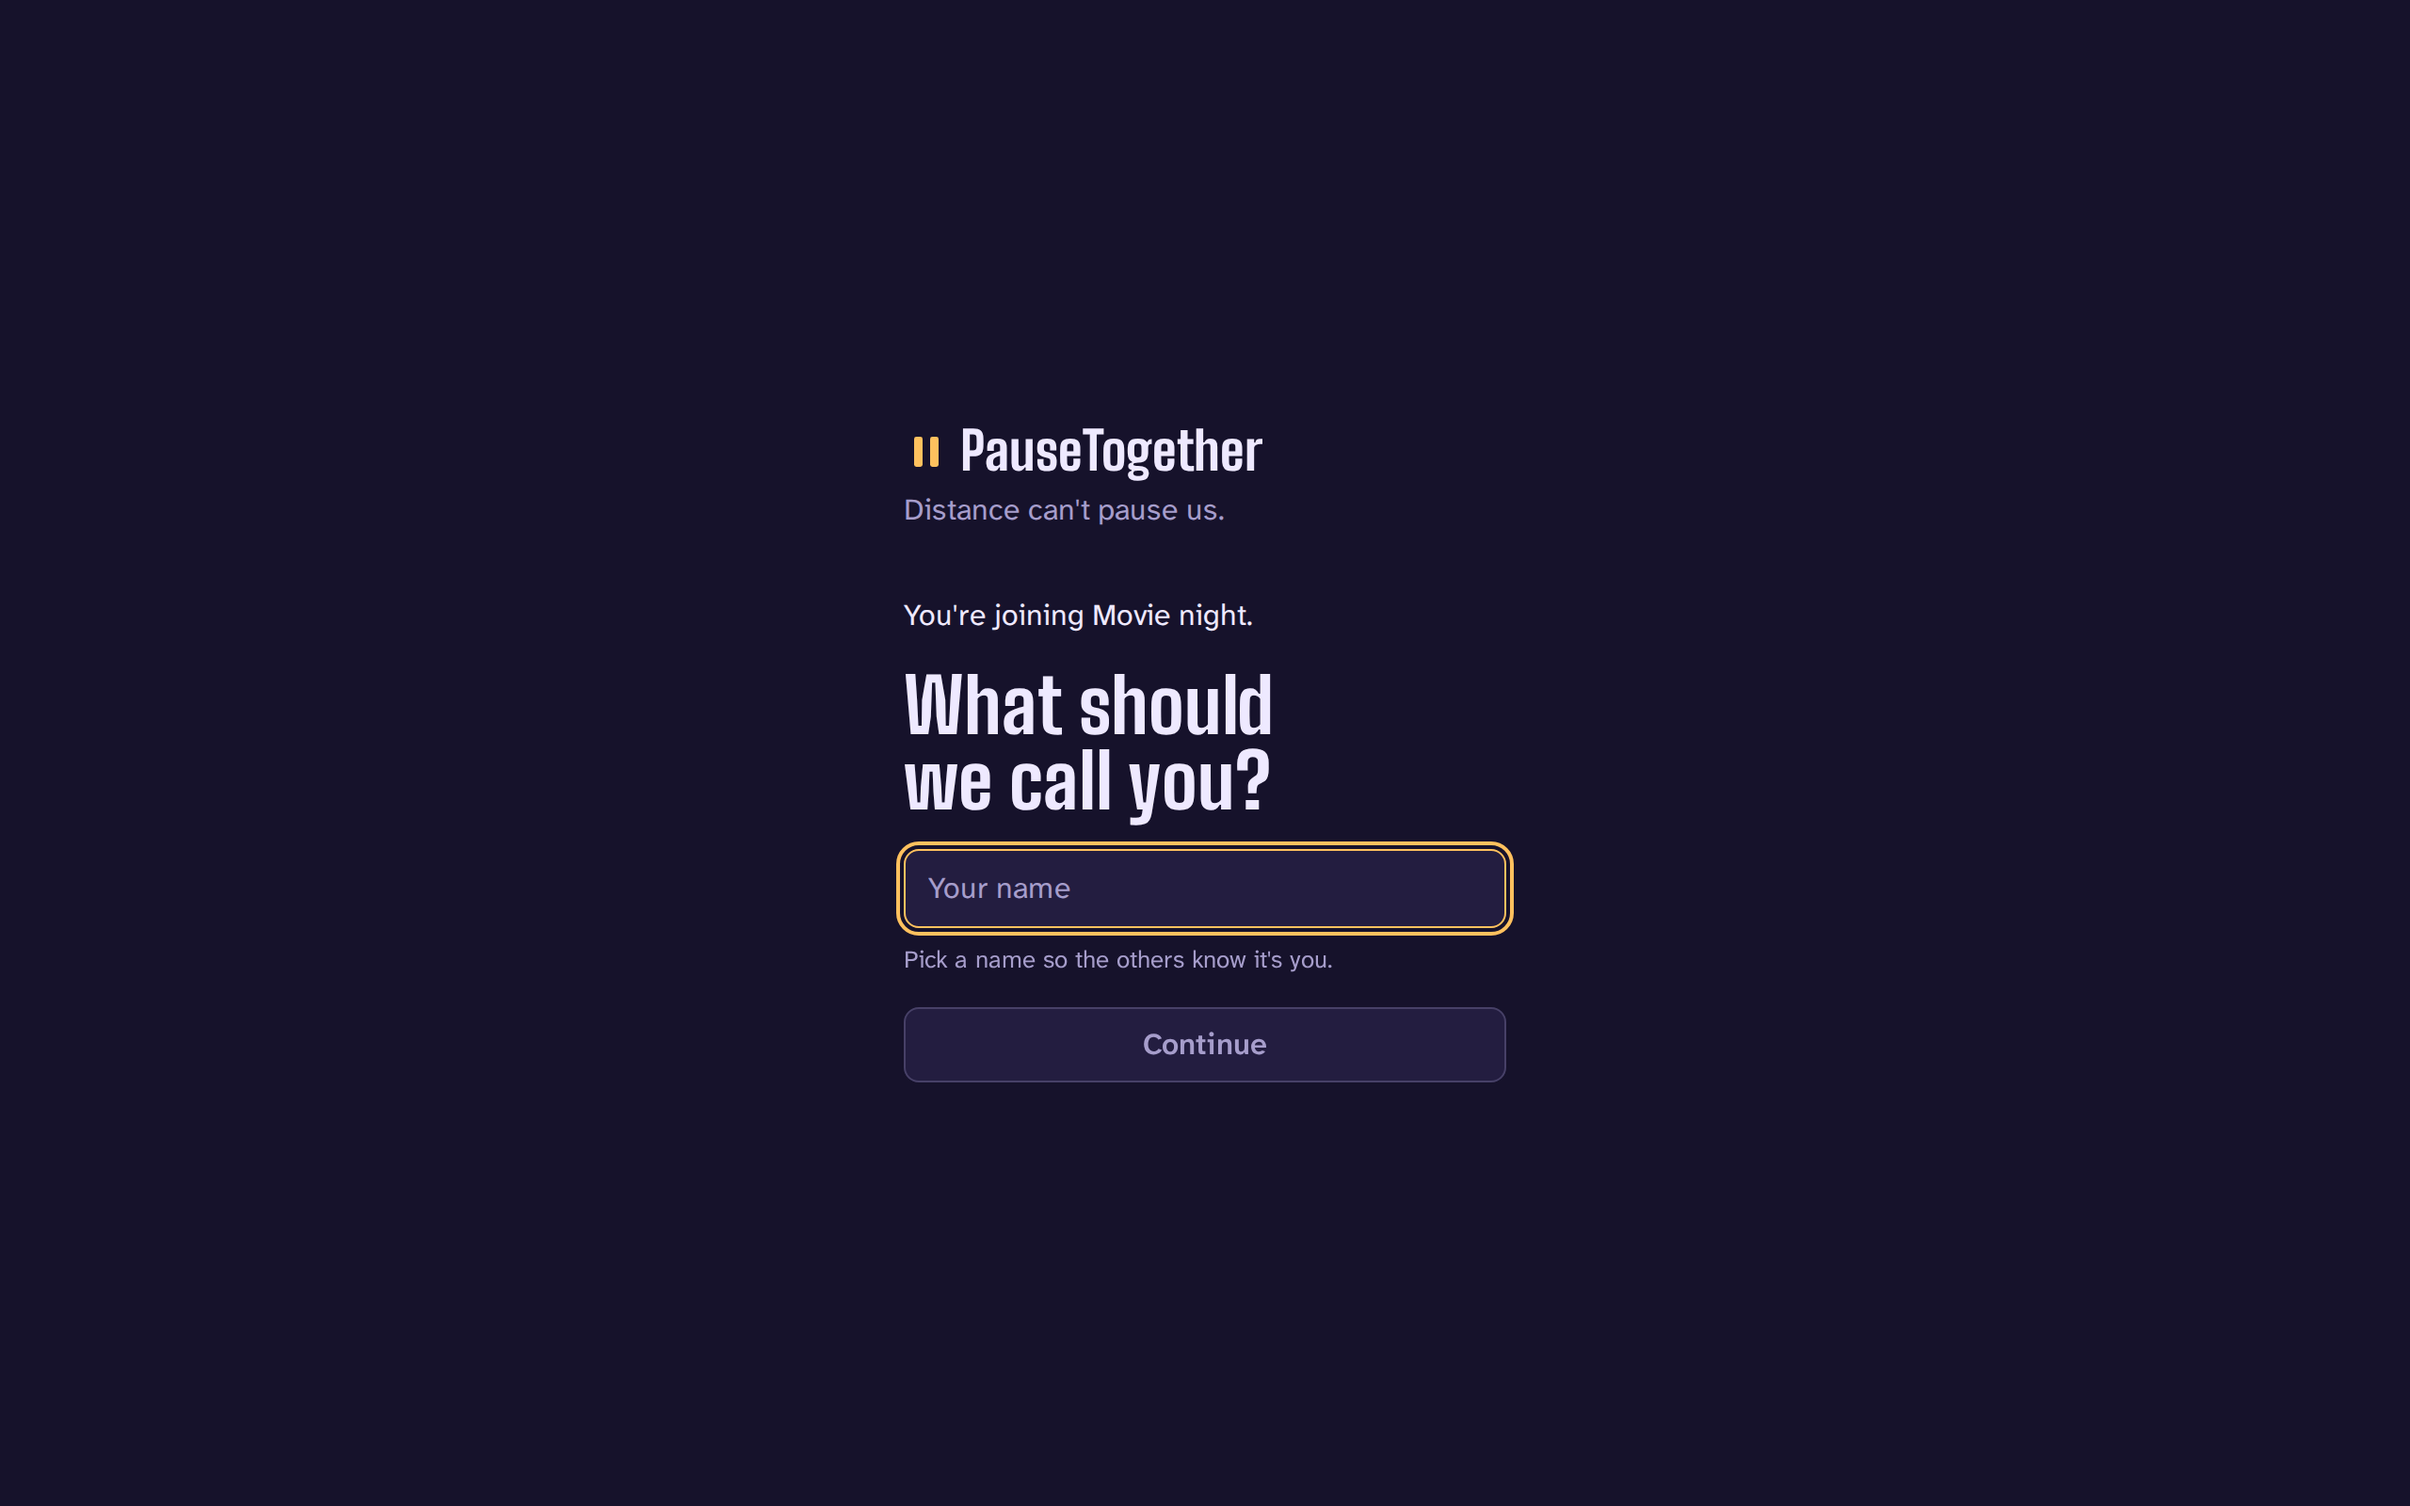
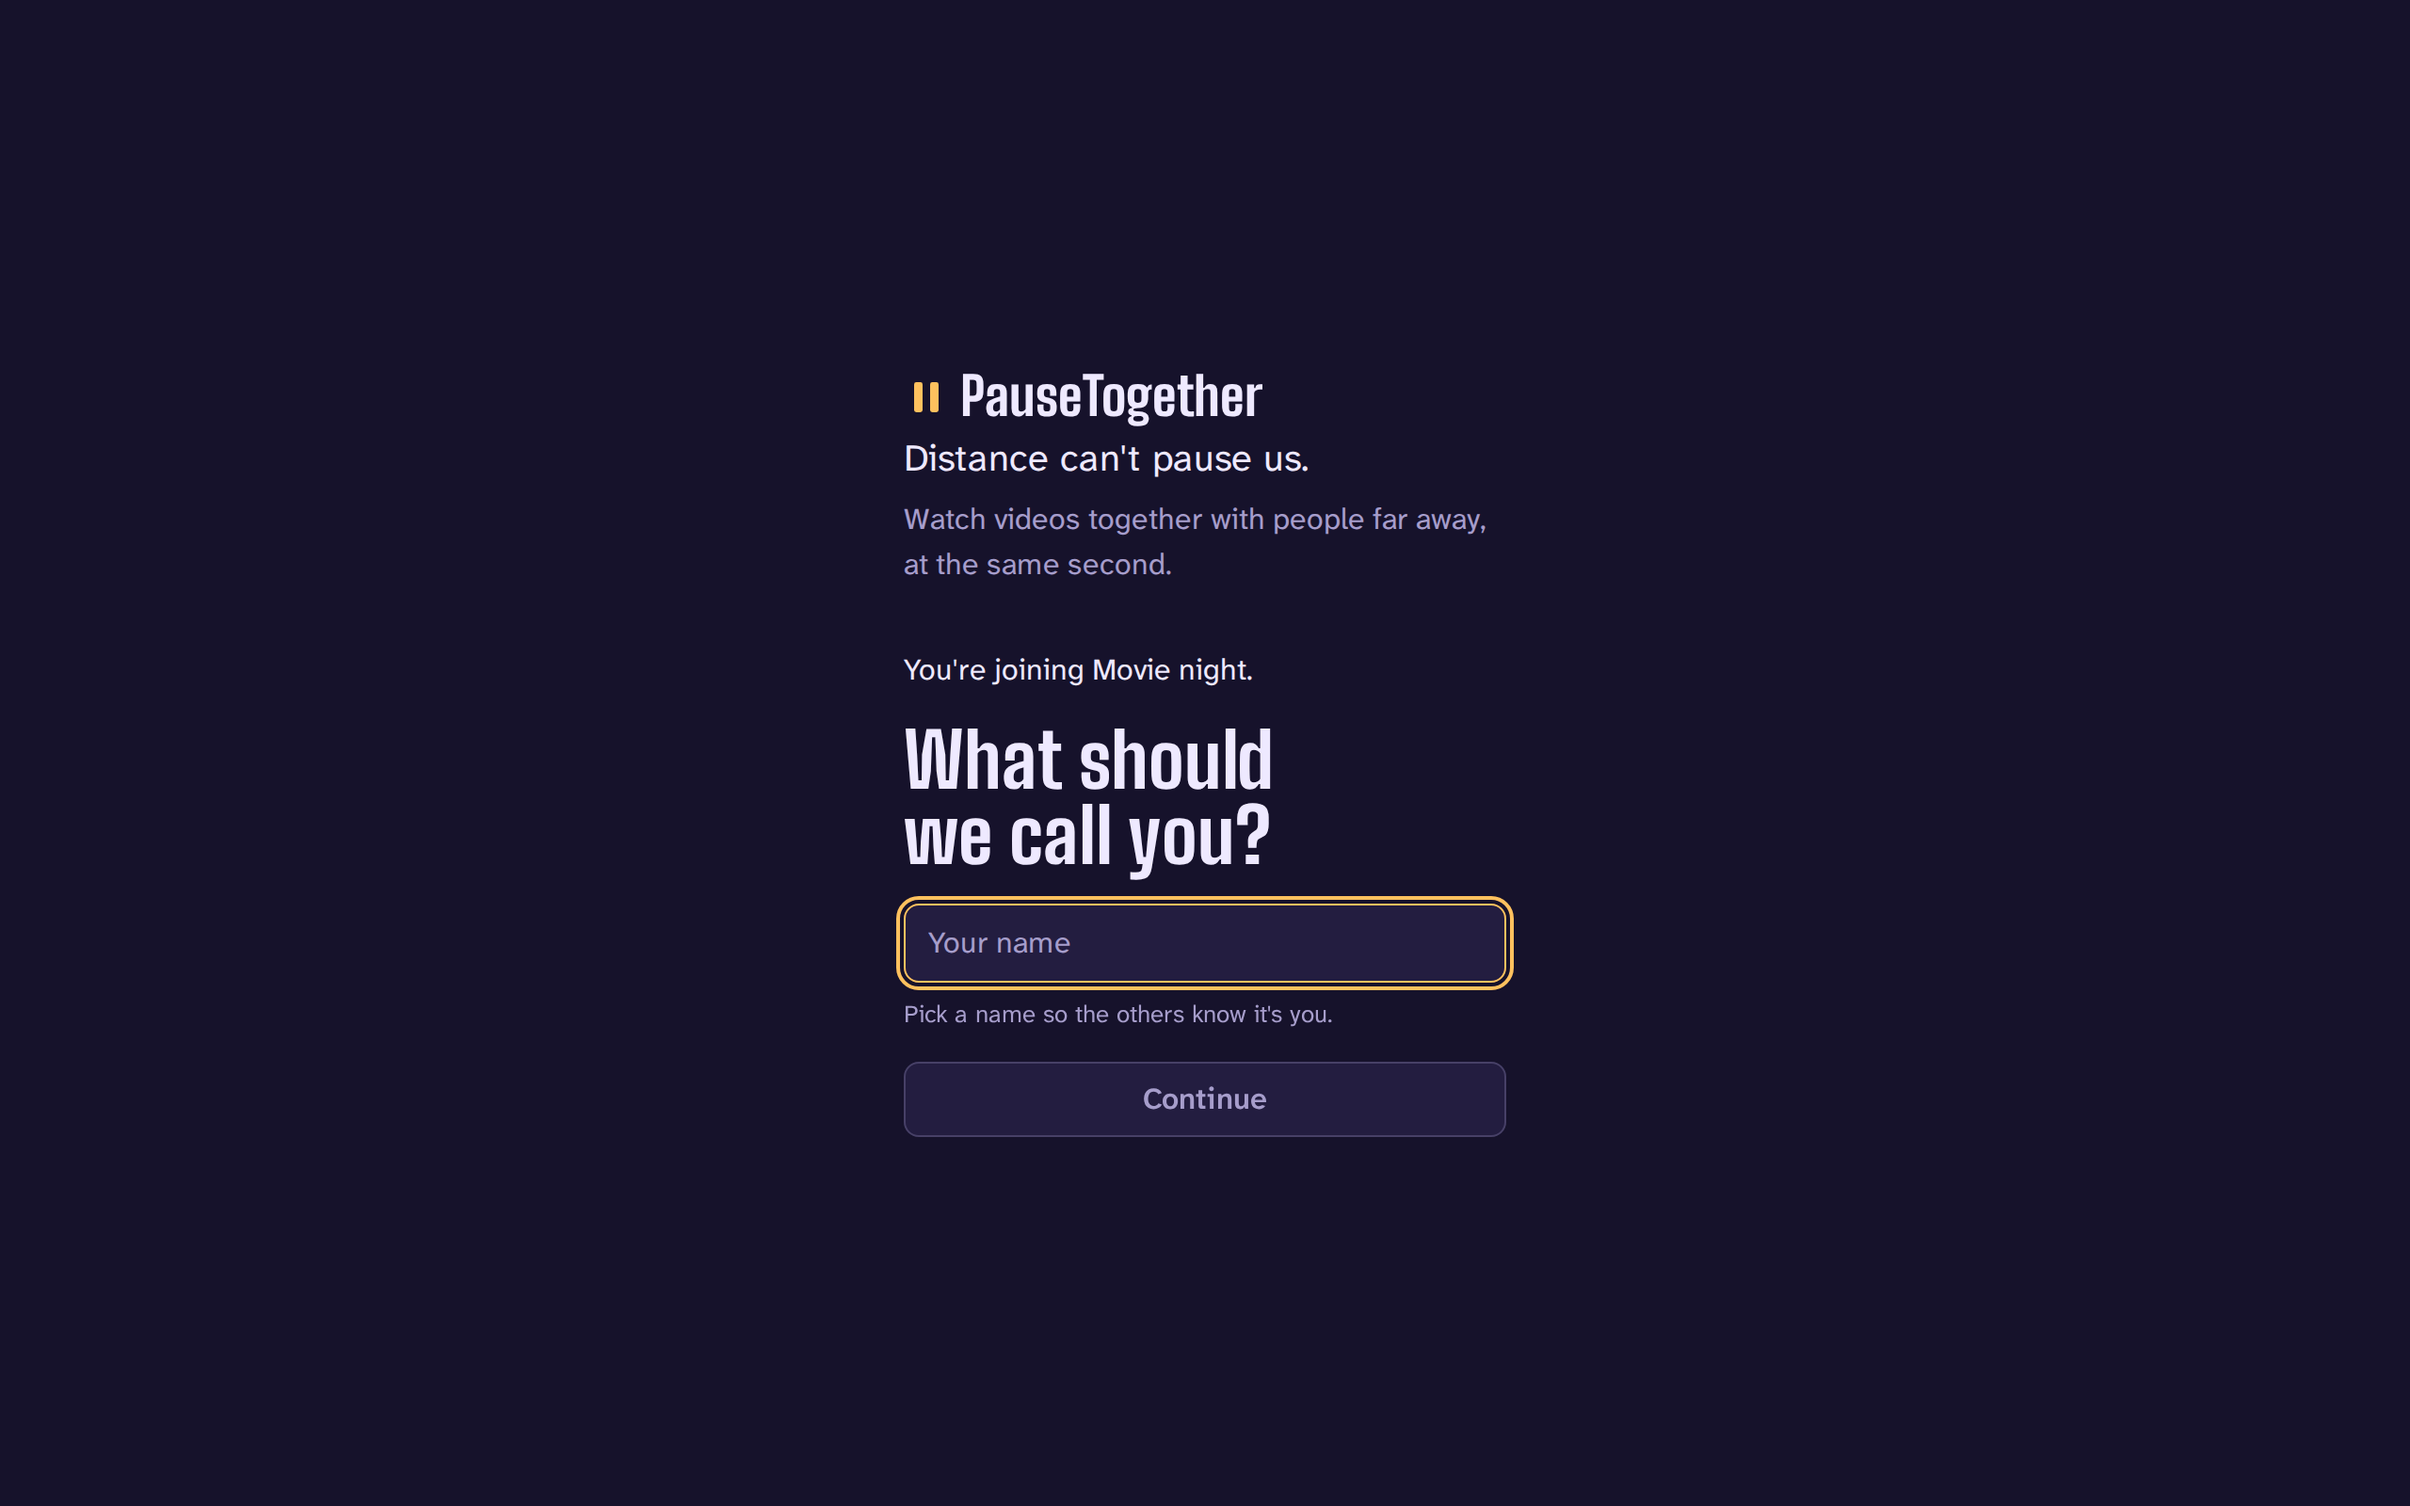
fix(welcome): set the tagline apart from the line under it
Both were haze at one size, so the tagline read as the first sentence of the
description. The tagline is moonlight and a step bigger now; the plain line
stays quiet. The README's welcome screenshot and its alt text show the new
form.

Changed region(s): [[0.375, 0.25, 0.625, 0.75], [0.5938, 0.6875, 0.625, 0.7188]]

diff --git a/web/src/lib/NameForm.svelte b/web/src/lib/NameForm.svelte
@@ -57,8 +57,9 @@
 			<p class="flex items-center gap-1.5">
 				<Brand />
 			</p>
-			<p class="text-haze">{strings.tagline}</p>
-			<p class="text-haze">{strings.about}</p>
+			<!-- The tagline is the brand's voice; the line under it says plainly what the app is. -->
+			<p class="text-lg">{strings.tagline}</p>
+			<p class="mt-1 text-haze">{strings.about}</p>
 		</div>
 		{#if room}
 			<p class="break-words">{strings.joining(room)}</p>

diff --git a/README.md b/README.md
@@ -53,7 +53,7 @@ watch in sync from PCs, tablets and phones. When one of them buffers or steps aw
     <td align="center"><sub><b>Picker.</b> A video that already has a room says so.</sub></td>
   </tr>
   <tr>
-    <td><img src="docs/screenshots/welcome.png" alt="The first visit to a room link: You're joining Movie night. What should we call you?" /></td>
+    <td><img src="docs/screenshots/welcome.png" alt="The first visit to a room link: what the app is, You're joining Movie night, and What should we call you?" /></td>
     <td><img src="docs/screenshots/admin.png" alt="The admin page: the guest link, three libraries, files we can't use grouped by reason, prepare jobs, language defaults and cache clean-up." /></td>
   </tr>
   <tr>
